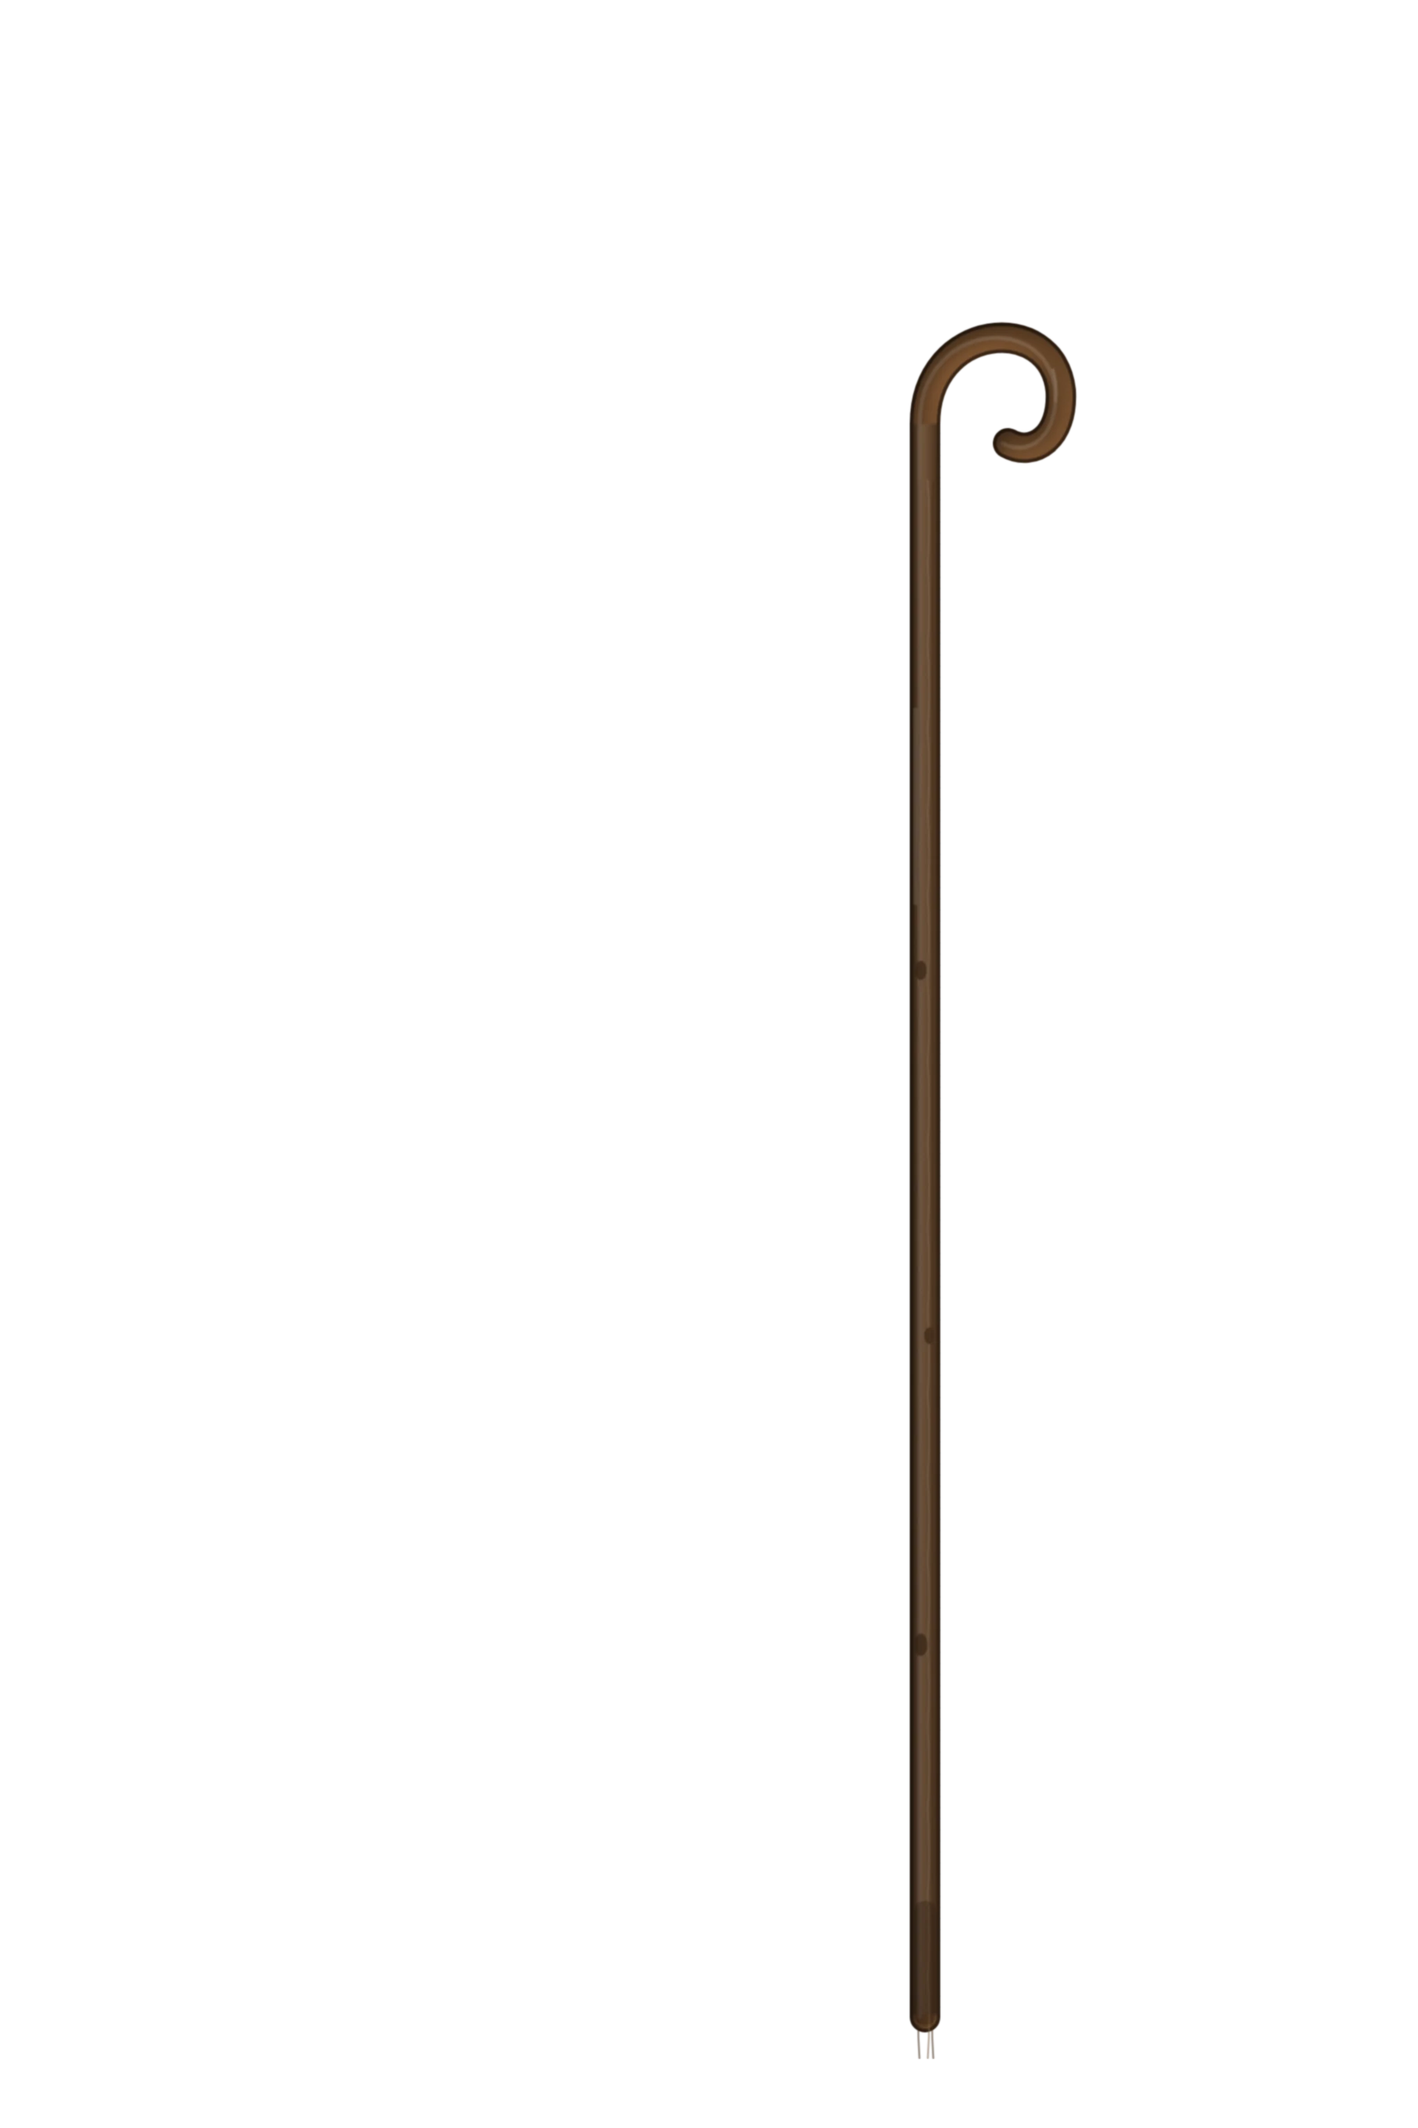
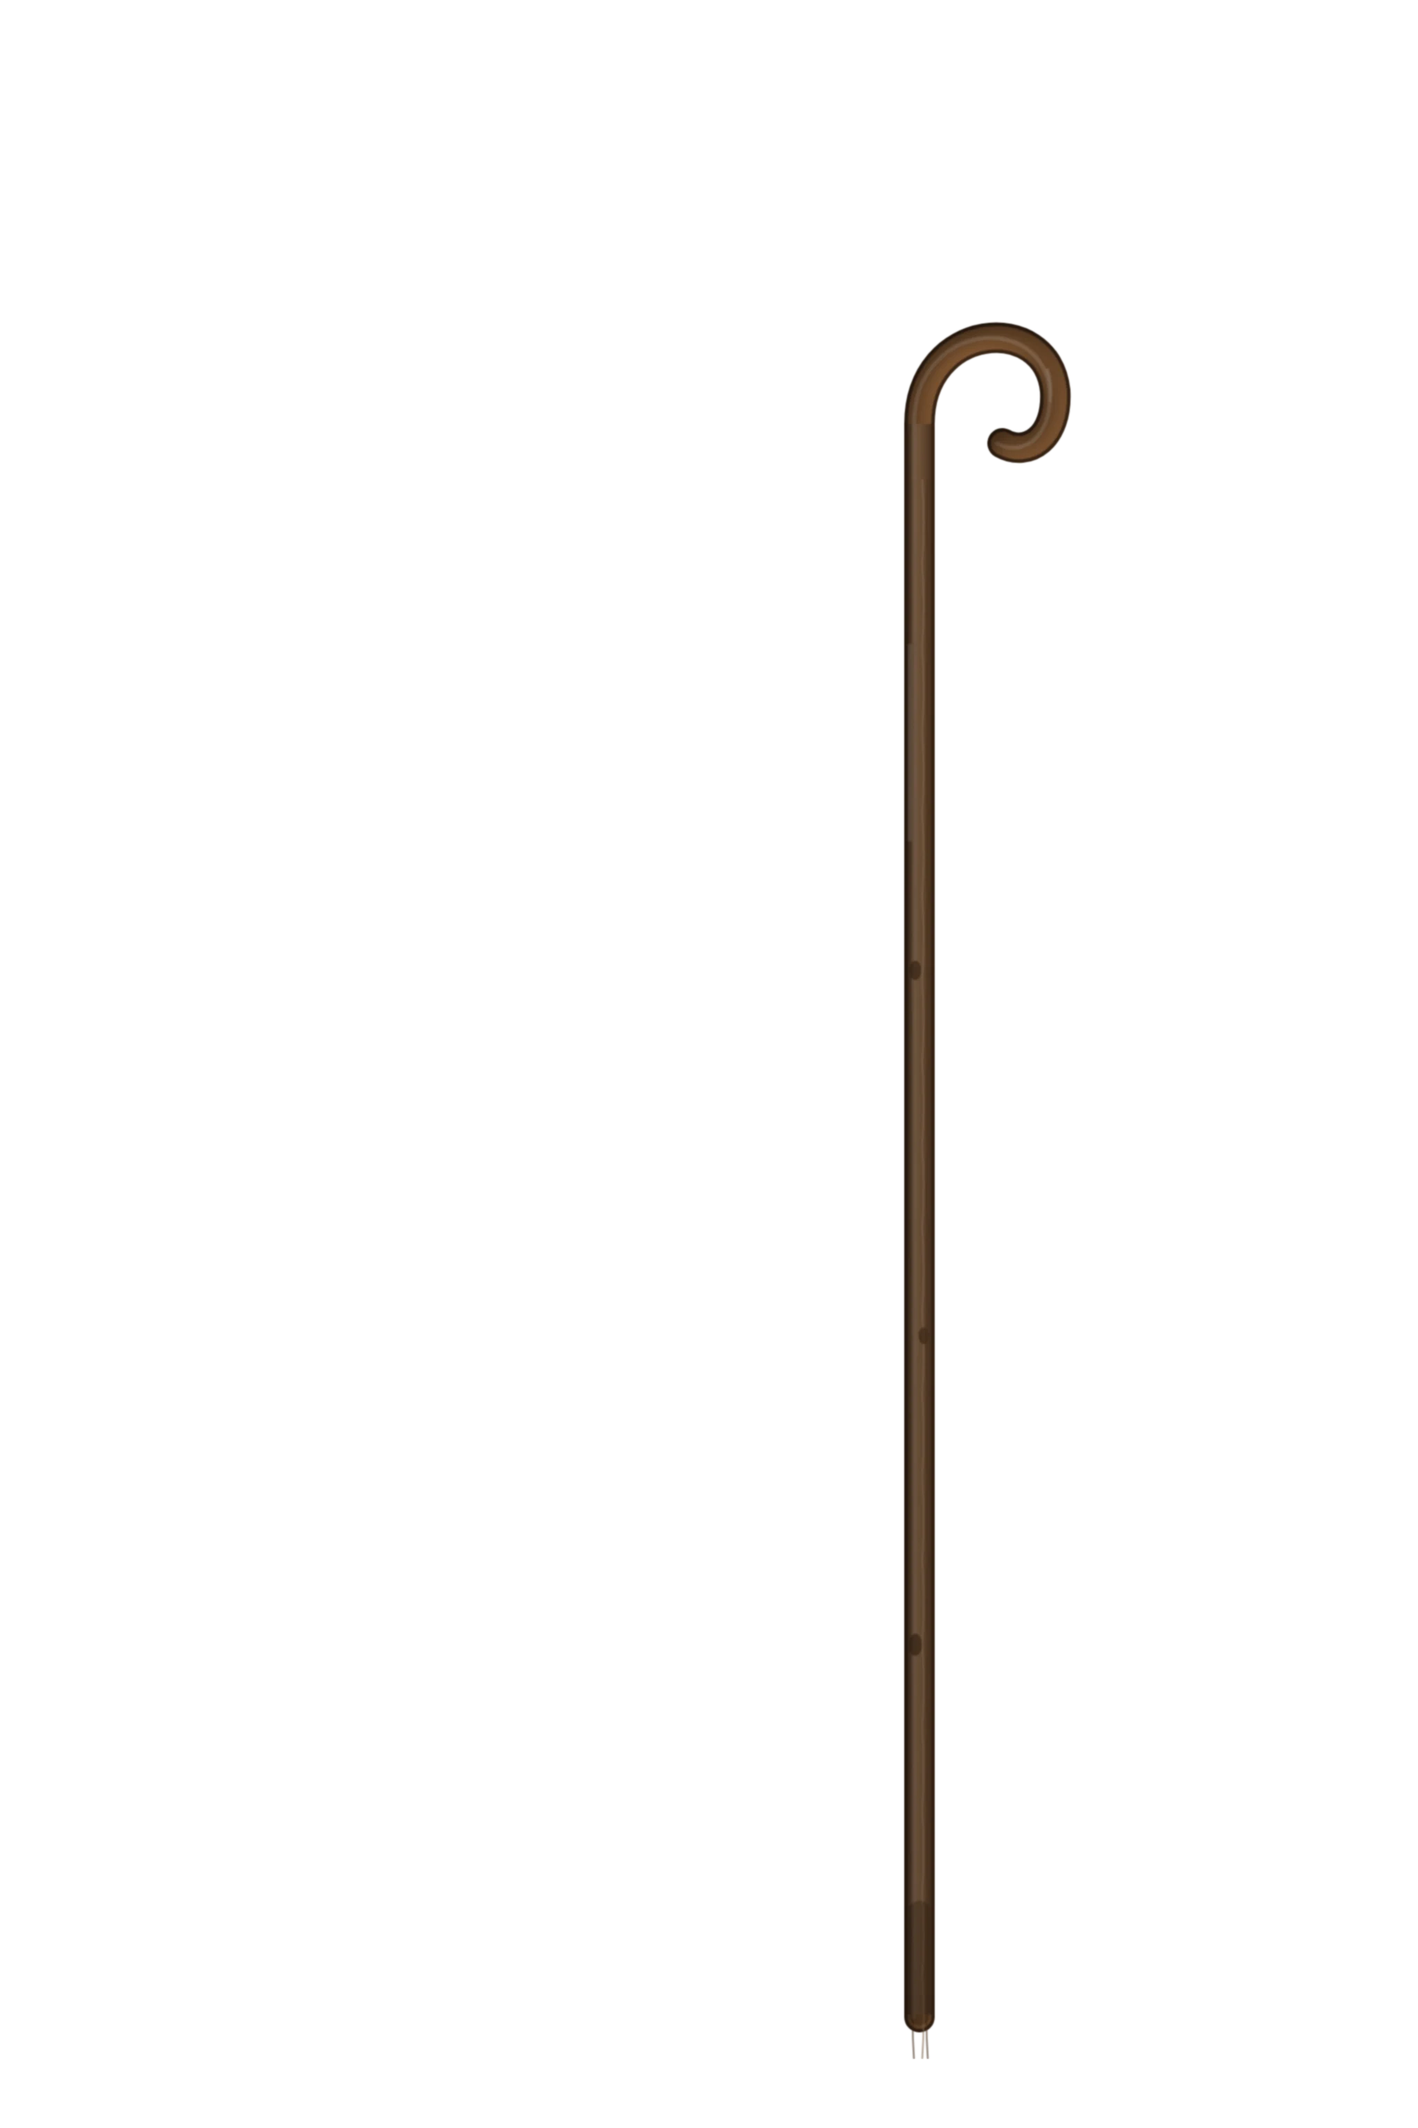
Lote 1: pose do cajado com antebraço real, moldes vetoriais e especificação para a pintura
- Pose do cajado: cotovelo mais baixo e punho à altura do peito; manga do braço
  dobrado em dois segmentos (sem contorno cruzado no cotovelo)
- AvatarRenderer vectorOnly: moldes sempre a partir do vetor de referência
- Camadas de teste do lote 1 regeneradas
- docs/arte-lotes/LOTE-1.md: 23 camadas, arquivos, tipos, âncoras do corpo B,
  regras de encaixe e verificação; moldes 2048×3072 por camada, molde completo
  com âncoras e folha de camadas
- docs/ARTE.md: variante .staff e camadas chest, back_item e hand_item

Claude-Session: https://claude.ai/code/session_01ShwRuBXYkz4meuq65H5Vn5

Changed region(s): [[0.625, 0.1562, 0.7812, 0.9688]]

diff --git a/src/features/avatar/components/AvatarRenderer.tsx b/src/features/avatar/components/AvatarRenderer.tsx
@@ -2,6 +2,7 @@ import { memo, useId, useMemo, type ReactElement } from 'react';
 import { Image, StyleSheet, View, type ImageSourcePropType, type StyleProp, type ViewStyle } from 'react-native';
 import Svg, { Defs, G, Image as SvgImage, LinearGradient, Mask, RadialGradient, Rect, Stop } from 'react-native-svg';
 import { ART_REGISTRY } from '../art/registry';
+import { VECTOR_MANIFEST } from '../art/manifest';
 import { CANVAS, CROPS, geometryFor, type ArmPose, type AvatarCrop } from '../art/geometry';
 import type { ArtContext, VectorArt } from '../art/types';
 import { getOption } from '../domain/catalog';
@@ -28,6 +29,8 @@ export type AvatarRendererProps = {
    * da fogueira à direita; `neutral` (padrão) = luz neutra, para comparar peças no guarda-roupa.
    */
   lighting?: 'neutral' | 'camp';
+  /** só a arte vetorial de referência (moldes de encaixe para a pintura), ignorando PNG/WebP registrados */
+  vectorOnly?: boolean;
   accessibilityLabel?: string;
   style?: StyleProp<ViewStyle>;
 };
@@ -76,18 +79,19 @@ function AvatarRendererBase({
   accessibilityLabel,
   style,
   lighting = 'neutral',
+  vectorOnly = false,
 }: AvatarRendererProps) {
   const rawId = useId();
   const uid = useMemo(() => `av${rawId.replace(/[^a-zA-Z0-9]/g, '')}`, [rawId]);
   const { layers, armPose } = useMemo(() => {
-    const all = resolveLayers(appearance, equippedItems, { showBackground });
+    const all = resolveLayers(appearance, equippedItems, { showBackground, manifest: vectorOnly ? VECTOR_MANIFEST : undefined });
     // a pose dos braços depende do conjunto equipado (ex.: o cajado dobra o braço direito)
     const pose = all.some((l) => l.params.armPose === 'staff') ? ('staff' as const) : ('rest' as const);
     return {
       layers: all.filter((l) => (!onlySources || onlySources.includes(l.source)) && (!onlyLayers || onlyLayers.includes(l.slot))),
       armPose: pose,
     };
-  }, [appearance, equippedItems, showBackground, onlySources, onlyLayers]);
+  }, [appearance, equippedItems, showBackground, onlySources, onlyLayers, vectorOnly]);
 
   const ctxBase = useMemo(
     () => ({

diff --git a/src/features/avatar/art/parts/clothing.tsx b/src/features/avatar/art/parts/clothing.tsx
@@ -126,6 +126,13 @@ function sleeveGeo(g: BodyGeometry, side: -1 | 1, kind: Sleeve, pose?: ArmPose) 
   const t = kind === 'elbow' ? 0.2 : kind === 'three' ? 0.5 : 0.95;
   const end = lerpPt(a.elbow, a.wrist, t);
   const wEnd = kind === 'elbow' ? g.forearm + 22 : kind === 'three' ? g.forearm + 16 : g.forearm + 18;
+  // braço dobrado (cajado): o antebraço sobe, então a manga vira dois segmentos — braço e antebraço —
+  // em vez de um contorno único que se cruzaria no cotovelo
+  if (pose === 'staff' && side === 1) {
+    const upper = limbPath(a.shoulder, a.elbow, g.upperArm + 15, g.upperArm + 13, 0.06);
+    const fore = limbPath(a.elbow, end, g.upperArm + 12, wEnd - 2, 0.04);
+    return { a, end, wEnd: wEnd - 2, d: `${upper} ${fore}` };
+  }
   return { a, end, wEnd, d: sleevePath(a.shoulder, a.elbow, end, g.upperArm + 15, g.upperArm + 13, wEnd) };
 }
 

diff --git a/src/features/avatar/art/geometry.ts b/src/features/avatar/art/geometry.ts
@@ -66,8 +66,8 @@ export function anchors(g: BodyGeometry, side: Side, pose: ArmPose = 'rest') {
     // cotovelo para fora e para baixo, antebraço subindo até a mão que envolve o cajado
     return {
       shoulder: { x: CX + (g.shoulder - 24), y: 476 },
-      elbow: { x: CX + g.shoulder + 22, y: 676 },
-      wrist: { x: CX + g.shoulder - 4, y: 612 },
+      elbow: { x: CX + g.shoulder + 24, y: 704 },
+      wrist: { x: CX + g.shoulder - 8, y: 566 },
       hip: { x: CX + g.hip * 0.48, y: 792 },
       knee: { x: CX + (g.hip * 0.42 + 4), y: 1078 },
       ankle: { x: CX + (g.hip * 0.36 + 6), y: 1386 },

diff --git a/app/dev/avatar-lab.tsx b/app/dev/avatar-lab.tsx
@@ -60,6 +60,7 @@ function ExportView({ template, source, body, layer, pose, scale, skin, hair }: 
         showBackground={false}
         onlySources={source ? [source] : [`body/${bodyId}`]}
         onlyLayers={layer ? [layer] : template ? ['shadow', 'body', 'face', 'arms', 'hands'] : undefined}
+        vectorOnly
       />
       {template ? <Guides look={look} h={1536 * k} /> : null}
     </View>

diff --git a/docs/arte-lotes/LOTE-1.md b/docs/arte-lotes/LOTE-1.md
@@ -1,0 +1,130 @@
+# Lote 1 de avatares 2.5D semirrealistas — camadas e âncoras para a pintura
+
+**Para:** quem vai pintar as camadas finais (Codex ou ilustração).
+**Escopo:** uma combinação jogável no **corpo B (Atlético)**, com troca de cajado.
+**Referência de acabamento:** os dois viajantes pintados anexados pelo usuário (volume pintado no rosto,
+cabelo e roupa, caimento e materiais convincentes). O cenário ilustrado do acampamento está em
+`origin/codex/acampamento-cinematografico` (f2eb61f); o avatar entra por cima dele.
+
+Lista legível por máquina: [`lote-1.json`](lote-1.json). Moldes de cada camada (2048×3072, transparentes,
+na mesma árvore de pastas dos arquivos finais): [`lote-1/moldes/`](lote-1/moldes/). Molde completo com
+âncoras: [`lote-1/molde-corpo-b-cajado.png`](lote-1/molde-corpo-b-cajado.png). Folha com todas as
+camadas: [`lote-1/folha-de-camadas.png`](lote-1/folha-de-camadas.png).
+
+## 1. O que já está no app
+
+O pipeline já recebe essas camadas e foi verificado no guarda-roupa e no acampamento
+(`FLOW=avatar-lote1 bash e2e/run.sh`). Os arquivos atuais em `assets/avatars/` são **camadas de teste**:
+o desenho vetorial exportado e passado por uma pintura procedural (`scripts/paint-pass.py`). Para entregar a
+pintura final, **substitua os arquivos com o mesmo nome e caminho** e rode `npm run assets`. Nada mais muda.
+
+## 2. Formato
+
+| Item | Regra |
+|---|---|
+| Canvas | **2048×3072 (`@2x`) e 1024×1536 (base), os dois obrigatórios neste lote** — o acampamento mostra o personagem com ~1100 px reais |
+| Formato | WebP com alfa (PNG aceito), fundo transparente, peça já posicionada no canvas inteiro |
+| Caminho | `assets/avatars/{categoria}/{id}/{body-b|all}/{camada}[.staff][.mask|.shade][@2x].webp` |
+| `.mask` | só a forma, em cor chapada clara (`#F0F0F0`); o app tinge com a cor da conta (pele ou cabelo). A cor pintada é ignorada, só o alfa conta |
+| `.shade` | sombras e luzes translúcidas **sem cor de base**: preto translúcido para sombra, branco translúcido para luz, por cima da máscara |
+| `.staff` | variante de pose: braço direito dobrado segurando o cajado (só `arms`, `hands`, `sleeves`, `cloak_front`) |
+| Luz pintada | **neutra**, principal do alto à esquerda, preenchimento suave. Não pinte o azul da noite nem o laranja da fogueira: o app aplica a luz de cada tela sobre a silhueta |
+| Contorno | discreto, marrom quente escuro, mais fino que o atual; o volume vem da pintura |
+
+Validação automática (`npm run assets`): tamanho, alfa, caminho, camada, corpo, id do catálogo, `.mask`
+só em pele/cabelo e em `hand_item`, `.staff` só nas camadas de pose.
+
+## 3. Espaço de pintura e âncoras (corpo B, canvas 1024×1536; no `@2x` multiplique por 2)
+
+A pintura fica no **espaço final do corpo**. A cabeça já está na proporção adulta (~7 cabeças).
+
+| Ponto | Repouso (esq. / dir. do observador) | Pose do cajado (braço direito) |
+|---|---|---|
+| Topo da cabeça | y 216 | — |
+| Queixo | y 391 | — |
+| Olhos | (485, 310) e (539, 310) | — |
+| Boca | (512, 362) | — |
+| Meia-largura da cabeça | ~63 | — |
+| Ombros | (382, 476) e (642, 476) | (642, 476) |
+| Cotovelos | (354, 690) e (670, 690) | **(690, 704)** |
+| Pulsos | (365, 884) e (659, 884) | **(658, 566)** |
+| Punho fechado no cajado | — | **y 496 a 572, centro x 664** |
+| Haste do cajado | — | **x 664**, do gancho (topo y 236; gancho até x ~762) ao chão (y 1456) |
+| Quadris | (457, 792) e (567, 792) | — |
+| Joelhos | (460, 1078) e (564, 1078) | — |
+| Tornozelos | (465, 1386) e (559, 1386) | — |
+| Chão (sola) | y 1450 | — |
+| Barra da túnica de linho | y 1120 | — |
+| Alça da bolsa | do ombro direito (626, 452), curva sobre o peito, até (457, 840) | — |
+| Bolsa | centro (437, 896), ~120 × 122, repousando no quadril esquerdo | — |
+| Drapeado do manto | do ombro esquerdo (346, 448) até o quadril direito (615, 900); broche em (380, 468) | — |
+| Costas do manto | barra em y ~1400, meia-largura na barra ~286 | — |
+
+## 4. As 23 camadas (ordem de pintura = ordem de sobreposição, de trás para frente)
+
+Camadas marcadas com **(par)** são dois arquivos: `.mask` + `.shade`. As misturas (`mixed`) são a parte
+que não é pele em `.webp` e a parte que é pele em `.shade`.
+
+| # | Arquivo(s) em `assets/avatars/` | Tipo | O que pintar e como encaixa |
+|---|---|---|---|
+| 1 | `back/cloak-night/body-b/cloak_back` | base | Costas do manto de lã roxo até a canela, atrás do corpo inteiro; dobras verticais, barra bordada dourada |
+| 2 | `hair/hair-short/all/back_hair` **(par)** | mask | Volume de trás do cabelo curto, atrás da cabeça |
+| 3 | `body/base/body-b/body` **(par)** | mask | Cabeça, orelhas, pescoço, tronco e pernas em pele; volume do rosto pintado na `.shade` |
+| 4 | `body/base/body-b/face.shade` (+ `face`) | mixed | Nariz, maçãs do rosto, sombra sob o queixo, só como sombreamento sobre a pele |
+| 5 | `eyes/eyes-almond/all/face` + `face.shade` | mixed | Olhos (íris, brilho, cílios) em cor; pálpebras e olheiras como `.shade` |
+| 6 | `brows/brows-soft/all/face` **(par)** | mask | Sobrancelhas (tinta do cabelo) |
+| 7 | `feet/sandals-leather/body-b/feet` | base | Sandálias de couro sobre os pés do corpo; tiras cruzadas, sola com espessura |
+| 8 | `outfit/tunic-linen/body-b/upper_outfit` | base | Túnica de linho cru até y 1120, trama visível, bordado turquesa na gola e na barra; sem mangas |
+| 9 | `back/cloak-night/body-b/chest` | base | Drapeado do manto: cai do ombro esquerdo, cruza o peito até o quadril direito, **por baixo dos braços**; broche de bronze |
+| 10 | `waist/common_bolsa_do_viajante/body-b/chest` | base | Alça a tiracolo **por cima** do drapeado e da túnica, acompanhando o volume do peito, com sombra suave na roupa e fivela |
+| 11 | `waist/common_bolsa_do_viajante/body-b/waist` | base | Bolsa de couro gasto no quadril esquerdo, por baixo do braço; sombra de contato na túnica |
+| 12 | `body/base/body-b/arms` **(par)** | mask | Braços relaxados, sem mãos |
+| 13 | `body/base/body-b/arms.staff` **(par)** | mask | Braço esquerdo relaxado; direito com cotovelo para fora (690, 704) e antebraço subindo até (658, 566) |
+| 14 | `outfit/tunic-linen/body-b/sleeves` | base | Mangas três-quartos, braços relaxados |
+| 15 | `outfit/tunic-linen/body-b/sleeves.staff` | base | Manga esquerda igual à 14; manga direita acompanhando o braço dobrado (braço + meio antebraço) |
+| 16 | `hands/staff-shepherd/body-b/cloak_front.staff` | base | Haste do cajado de pastor em x 664, gancho acima da cabeça, madeira com veios e desgaste; **abaixo** da mão |
+| 17 | `hands/common_cajado_de_caminhada/body-b/cloak_front.staff` | base | Cajado de caminhada reto, topo y ~262, tira de couro abaixo do topo — **peça da troca** |
+| 18 | `body/base/body-b/hands` **(par)** | mask | As duas mãos relaxadas nos pulsos |
+| 19 | `body/base/body-b/hands.staff` **(par)** | mask | **Só a mão esquerda** (a direita está na camada 22/23) |
+| 20 | `expression/expr-smile/all/mouth.shade` (+ `mouth`) | mixed | Boca sorrindo. Lábios em cor translúcida (alfa 40–60%), para servir a todos os tons de pele |
+| 21 | `hair/hair-short/all/front_hair` **(par)** | mask | Franja e mechas da frente |
+| 22 | `hands/staff-shepherd/body-b/hand_item` **(par)** | skinmask | Mão direita fechada envolvendo a haste: dedos dobrados à frente com nós visíveis, polegar por cima; a haste aparece acima e abaixo do punho |
+| 23 | `hands/common_cajado_de_caminhada/body-b/hand_item` **(par)** | skinmask | A mesma mão, na haste do cajado de caminhada |
+
+Total: 35 arquivos base + 35 `@2x`.
+
+## 5. Regras de encaixe que a pintura precisa respeitar
+
+- Peças que tocam o corpo seguem o contorno do **molde da própria camada**. Pode passar 4–8 px da borda
+  para o caimento do tecido, mas não pode descobrir pele que o molde cobre.
+- **Mão no cajado:** a haste (16/17) não pode ter interrupção onde fica o punho. A mão (20/21) cobre a
+  haste entre y 496 e 572 e deixa a madeira visível acima e abaixo.
+- **Bolsa:** a alça (10) termina por baixo da bolsa (11). A bolsa fica abaixo da camada dos braços
+  (12/13), então o braço esquerdo pode passar à frente dela.
+- **Manto:** o drapeado (9) fica abaixo dos braços. As costas (1) não podem aparecer entre as pernas
+  abaixo da barra da túnica além do que o molde mostra.
+- **Pose:** com o cajado equipado, o app usa só `arms.staff`, `hands.staff` e `sleeves.staff`. Se faltar
+  uma delas, essa camada volta para o vetor (fica visível como diferença de acabamento).
+- **Tingimento:** nunca pinte a cor da pele ou do cabelo dentro de `.mask`. Todo o volume vai na `.shade`.
+
+## 6. Como verificar uma entrega
+
+```bash
+npm run assets                               # valida e registra
+FLOW=avatar-lote1 bash e2e/run.sh            # guarda-roupa, acampamento, troca de cajado, reabrir
+# moldes de outras peças, corpos ou poses (app web com EXPO_PUBLIC_AVATAR_LAB=1):
+node scripts/export-avatar-layers.cjs docs/arte-lotes/lote-1.json <pasta>
+```
+
+Conferir também `/dev/avatar-lab?fit=1` (os outros corpos continuam vetoriais) e a luz do acampamento
+sobre a silhueta.
+
+## 7. Próximos lotes (sugestão)
+
+1. Lote 2: corpos A e C da mesma combinação (as mesmas 23 camadas, por corpo; cabelo, olhos, boca e
+   sobrancelhas em `all/` já servem).
+2. Lote 3: as outras peças de viagem já encaixadas — Cinto com Bolsa, Manto de Viagem, Turbante de Areia
+   (`headwear` + `back_item`), Lenço de Cabeça e Pano de Cabeça (`headwear` + `back_item`), e o cabelo sob a
+   cobertura (`back_item`) para curto, cacheado e longo ondulado.
+3. Lote 4: os outros 9 estilos de cabelo, olhos, sobrancelhas, expressões e barbas.
+4. Depois: as 158 peças equipáveis ainda sem arte vestida, por slot e por prioridade de loja e capítulos.

diff --git a/docs/ARTE.md b/docs/ARTE.md
@@ -85,6 +85,13 @@ Regras importantes:
 
 ## 5. Nomenclatura dos arquivos
 
+> **Lotes de arte 2.5D:** a relação exata de camadas, arquivos e âncoras de cada lote está em
+> [`docs/arte-lotes/`](arte-lotes/) (lote 1: [`LOTE-1.md`](arte-lotes/LOTE-1.md)). A cabeça é pintada já na
+> proporção adulta (topo y 216, queixo y 391 no corpo); as âncoras do corpo continuam as da seção 3.
+> Variante de pose: `{camada}.staff` (braço direito segurando o cajado) para `arms`, `hands`, `sleeves` e
+> `cloak_front`. Camadas de encaixe das peças de viagem: `chest` (alça, drapeado), `back_item` (cabelo sob
+> cobertura, caimento do lenço) e `hand_item` (mão fechada no cajado, com `.mask` de pele).
+
 ```
 assets/avatars/{categoria}/{assetId}/{corpo|all}/{camada}.webp
 ```
